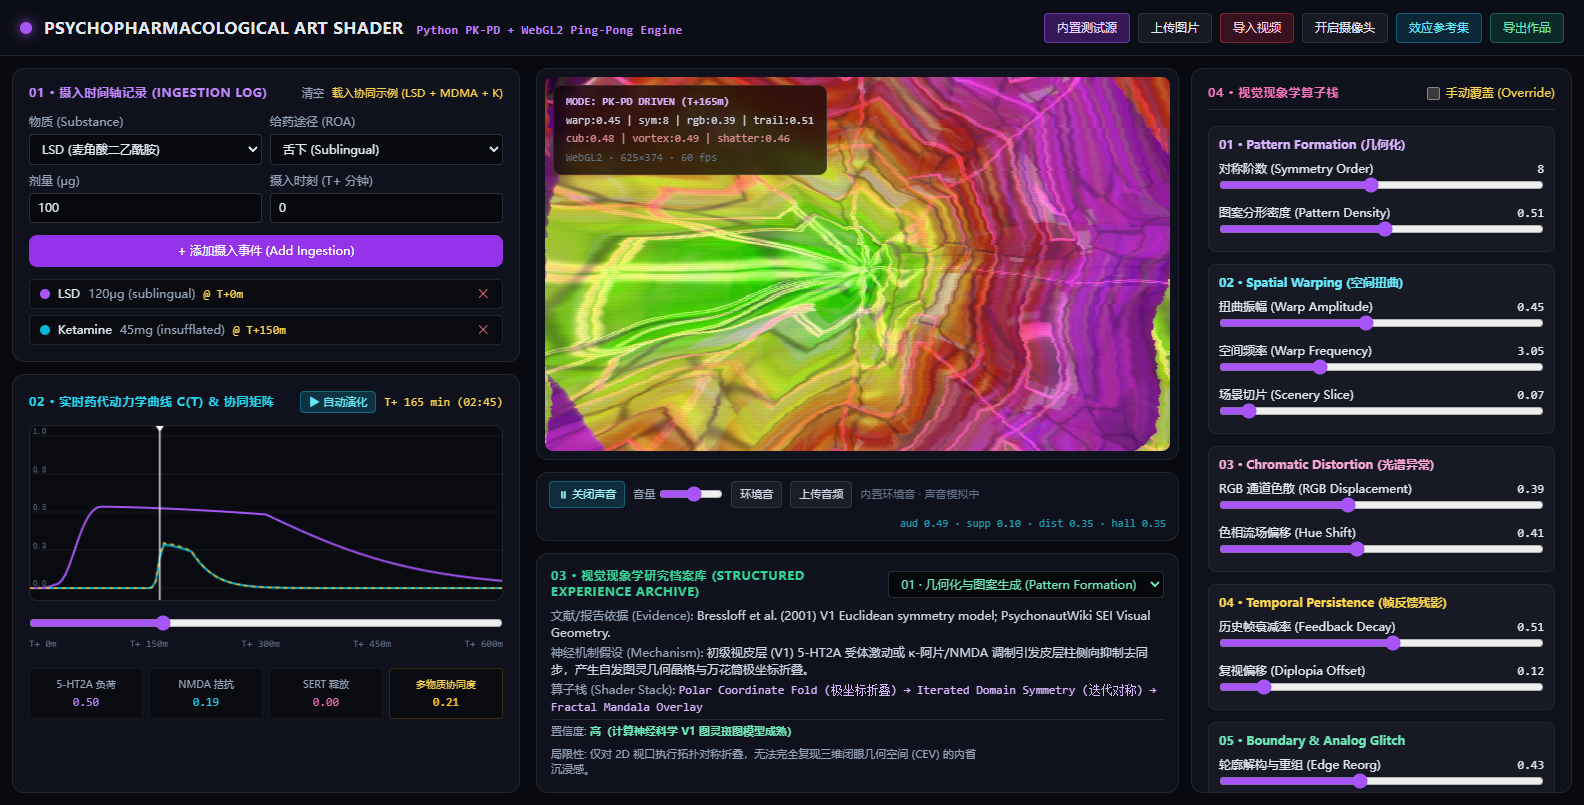
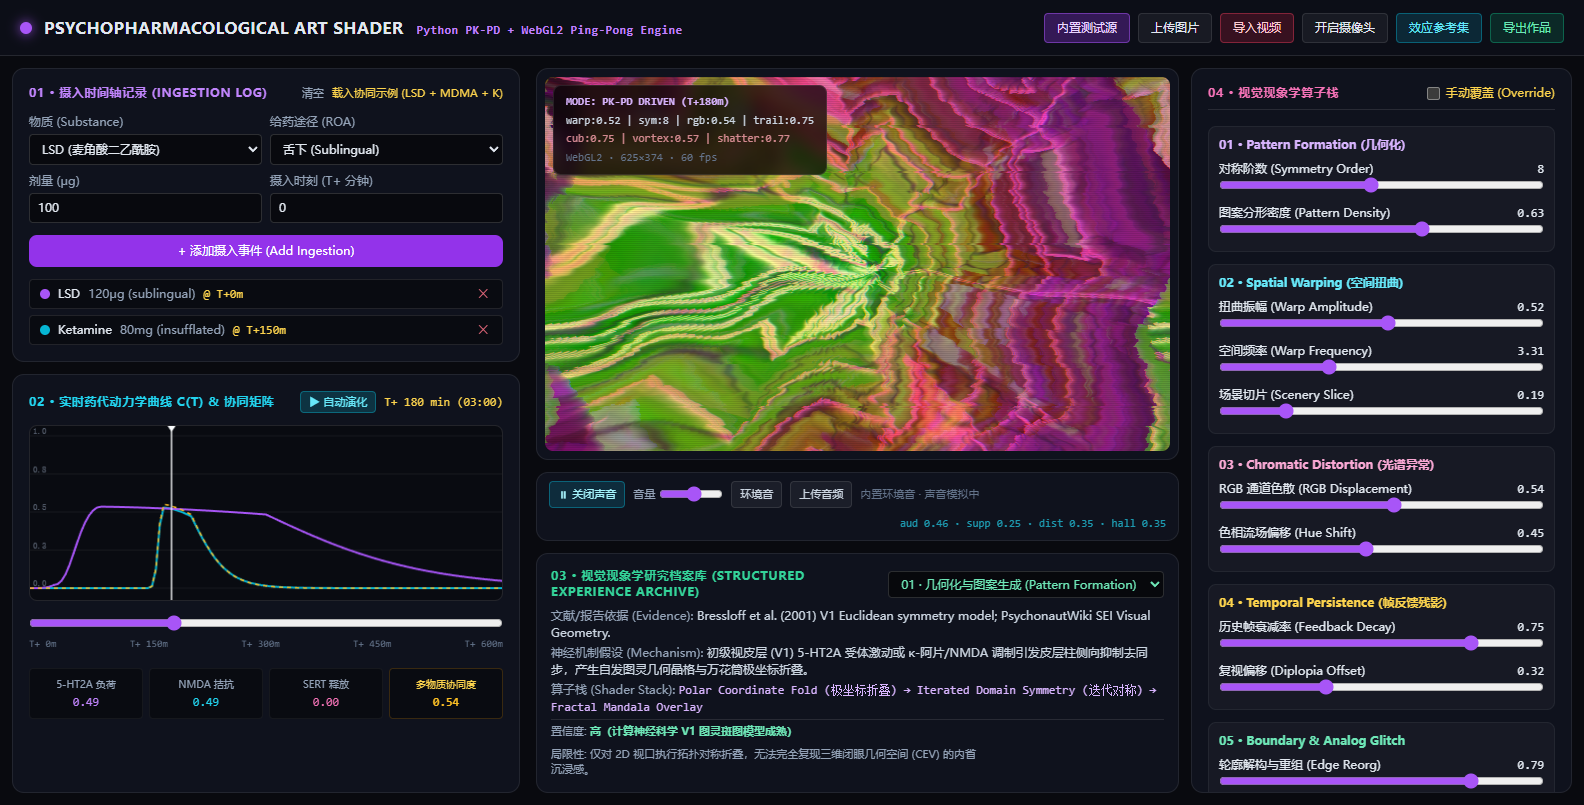
Make audio simulation audible and preserve multi-substance salience
- Add 0.75s pulse + high shimmer to the ambient source so filters/delay/distortion have content
- Strengthen lowpass, high-shelf, waveshaper, delay and ghost mappings
- Switch multi-substance audio mix to energy-weighted RMS; default T+180 / K 80mg
- Expose audio params in status, extend audio_check assertions
- Refresh screenshots and README explanation

diff --git a/static/index.html b/static/index.html
@@ -492,7 +492,7 @@
       }
       const DEFAULT_INGESTIONS = [
         { id: "ing_1", substance_id: "lsd_25", roa: "sublingual", dose: 120, time_minutes: 0 },
-        { id: "ing_2", substance_id: "ketamine", roa: "insufflated", dose: 45, time_minutes: 150 }
+        { id: "ing_2", substance_id: "ketamine", roa: "insufflated", dose: 80, time_minutes: 150 }
       ];
 
       const $ = (id) => document.getElementById(id);
@@ -501,7 +501,7 @@
       let substances = {};
       let archives = [];
       let ingestions = DEFAULT_INGESTIONS.map((item) => ({ ...item }));
-      let currentTimeMinutes = 165;
+      let currentTimeMinutes = 180;
       let timelineDuration = 0;
       let timelineData = null;
       let lastSimulationState = null;
@@ -544,6 +544,7 @@
         enabled: false,
         volume: 0.55,
         profile: null,
+        lastParams: null,
         meter: 0,
         timeData: null
       };
@@ -1522,17 +1523,31 @@
         const partials = [
           [55, 0.18], [110, 0.10], [165, 0.06], [220, 0.04], [330, 0.025], [440, 0.015],
         ];
+        const pulsePeriod = 0.75;
         for (let channel = 0; channel < 2; channel += 1) {
           const data = buffer.getChannelData(channel);
           const phase = channel === 0 ? 0 : 1.7;
           for (let index = 0; index < length; index += 1) {
             const t = index / rate;
-            let value = 0;
+            let pad = 0;
             for (const [frequency, amplitude] of partials) {
-              value += amplitude * Math.sin(2 * Math.PI * frequency * t + phase * (frequency / 220));
+              pad += amplitude * Math.sin(2 * Math.PI * frequency * t + phase * (frequency / 220));
             }
             const breathe = 0.72 + 0.28 * Math.sin((2 * Math.PI * t) / seconds + phase);
-            data[index] = value * breathe * 0.8;
+            // 高频闪烁，让 clarity/high-shelf 有可作用的内容
+            const shimmer = 0.012 * Math.sin(2 * Math.PI * 880 * t + phase)
+              + 0.007 * Math.sin(2 * Math.PI * 1320 * t + phase * 1.3)
+              + 0.005 * Math.sin(2 * Math.PI * 1760 * t + phase * 0.7);
+            // 0.75 秒一次的软拨弦脉冲，让低通、失真与延迟听得见
+            const pulsePhase = t % pulsePeriod;
+            const pulseEnv = Math.exp(-pulsePhase * 9);
+            const pulse = pulseEnv * (
+              0.20 * Math.sin(2 * Math.PI * 220 * t + phase)
+              + 0.10 * Math.sin(2 * Math.PI * 440 * t + phase * 1.4)
+              + 0.05 * Math.sin(2 * Math.PI * 880 * t)
+              + 0.025 * Math.sin(2 * Math.PI * 1760 * t + phase)
+            );
+            data[index] = (pad * breathe * 0.9 + shimmer + pulse) * 0.8;
           }
         }
         return buffer;
@@ -1733,28 +1748,43 @@
           label.textContent = profile && profile.active
             ? `aud ${fmt2(profile.clarity)} · supp ${fmt2(profile.suppression)} · dist ${fmt2(profile.distortion)} · hall ${fmt2(profile.hallucination)}`
             : "no active auditory profile";
-          label.title = label.textContent;
+          const sources = profile && Array.isArray(profile.sources)
+            ? profile.sources.map((source) => `${source.name} ${fmt2(source.effect)}`).join(" + ")
+            : "";
+          label.title = sources ? `${label.textContent} · ${sources}` : label.textContent;
         }
         const graph = audioState.graph;
         if (!graph) return;
         const value = (key) => Math.max(0, Math.min(1, Number(profile && profile[key]) || 0));
         const now = graph.ctx.currentTime;
         const cutoff = clampNumber(
-          19000 - value("suppression") * 12000 - value("sedation") * 5500
-          - value("dissociation") * 2500 + value("clarity") * 1500,
-          500, 20000,
+          18000 * Math.pow(Math.max(
+            0.03,
+            1 - value("suppression") * 0.55 - value("sedation") * 0.42 - value("dissociation") * 0.55,
+          ), 1.7) + 250,
+          300, 20000,
         );
         graph.lowpass.frequency.setTargetAtTime(cutoff, now, 0.35);
-        graph.highShelf.gain.setTargetAtTime(value("clarity") * 9 - value("suppression") * 3 + value("arousal") * 2, now, 0.35);
-        graph.shaper.curve = graph.curves[Math.round(value("distortion") * 10)];
-        graph.delay.delayTime.setTargetAtTime(0.12 + value("time_warp") * 0.55, now, 0.35);
-        graph.feedback.gain.setTargetAtTime(0.05 + value("time_warp") * 0.52, now, 0.35);
-        graph.wet.gain.setTargetAtTime(0.05 + value("time_warp") * 0.45, now, 0.35);
-        graph.ghostGain.gain.setTargetAtTime(value("hallucination") * 0.055, now, 0.4);
+        graph.highShelf.gain.setTargetAtTime(value("clarity") * 12 - value("suppression") * 4 + value("arousal") * 3, now, 0.35);
+        graph.shaper.curve = graph.curves[Math.round(Math.min(1, value("distortion") * 1.15 + value("intensity") * 0.1) * 10)];
+        graph.delay.delayTime.setTargetAtTime(0.16 + value("time_warp") * 0.60, now, 0.35);
+        graph.feedback.gain.setTargetAtTime(0.08 + value("time_warp") * 0.55, now, 0.35);
+        graph.wet.gain.setTargetAtTime(0.12 + value("time_warp") * 0.55, now, 0.35);
+        const ghostLevel = value("hallucination") * 0.11 * (0.5 + 0.5 * value("intensity"));
+        graph.ghostGain.gain.setTargetAtTime(ghostLevel, now, 0.4);
         graph.ghost1.frequency.setTargetAtTime(180 + value("hallucination") * 90 + value("time_warp") * 20, now, 0.5);
         graph.ghost2.frequency.setTargetAtTime(270 + value("hallucination") * 140, now, 0.5);
         graph.ghostLfo.frequency.setTargetAtTime(0.05 + value("arousal") * 0.35, now, 0.5);
-        graph.tinnitusGain.gain.setTargetAtTime(value("tinnitus") * 0.018, now, 0.4);
+        graph.tinnitusGain.gain.setTargetAtTime(value("tinnitus") * 0.025, now, 0.4);
+        audioState.lastParams = {
+          cutoff: Math.round(cutoff),
+          highShelfDb: Number((value("clarity") * 12 - value("suppression") * 4 + value("arousal") * 3).toFixed(1)),
+          distortion: Number(Math.min(1, value("distortion") * 1.15 + value("intensity") * 0.1).toFixed(2)),
+          delaySeconds: Number((0.16 + value("time_warp") * 0.60).toFixed(2)),
+          wet: Number((0.12 + value("time_warp") * 0.55).toFixed(2)),
+          ghost: Number(ghostLevel.toFixed(3)),
+          tinnitus: Number((value("tinnitus") * 0.025).toFixed(3))
+        };
       }
 
       function updateAudioMeter() {
@@ -1774,7 +1804,7 @@
           sum += centered * centered;
         }
         const rms = Math.sqrt(sum / audioState.timeData.length);
-        const target = Math.min(1, rms * 2.4);
+        const target = Math.min(1, rms * 1.5);
         audioState.meter = audioState.meter * 0.82 + target * 0.18;
       }
 
@@ -3286,6 +3316,7 @@
               volume: audioState.volume,
               meter: Number(audioState.meter.toFixed(3)),
               contextState: audioState.ctx ? audioState.ctx.state : null,
+              params: audioState.lastParams,
               profile: audioState.profile
             },
             ingestions: ingestions.map((item) => ({ ...item })),

diff --git a/tools/audio_check.js b/tools/audio_check.js
@@ -19,6 +19,9 @@
   assert(on.contextState === "running", "AudioContext 未运行: " + on.contextState);
   assert(on.profile && on.profile.active, "没有活动的听觉画像");
   assert(later.meter > 0.01, "音频分析器没有能量");
+  assert(on.params, "没有音频参数诊断");
+  assert(on.params.cutoff < 8000, "默认示例的低通未明显介入: " + (on.params && on.params.cutoff));
+  assert(on.params.wet > 0.25, "默认示例的延迟湿声过低: " + (on.params && on.params.wet));
   assert(status().errors.length === 0, "声音模拟产生运行时错误");
 
   return JSON.stringify({
@@ -26,6 +29,7 @@
     contextState: on.contextState,
     sourceName: on.sourceName,
     meter: later.meter,
+    params: on.params,
     profile: {
       clarity: on.profile.clarity,
       suppression: on.profile.suppression,

diff --git a/audio_profiles.py b/audio_profiles.py
@@ -20,6 +20,7 @@ Dimensions (all normalized to 0..1):
 """
 from __future__ import annotations
 
+import math
 import re
 from typing import Any, Dict, List
 
@@ -188,7 +189,11 @@ def list_audio_profiles() -> List[Dict[str, Any]]:
 
 
 def compute_audio_uniforms(substance_effects: Dict[str, float]) -> Dict[str, Any]:
-    """Weight audio dimensions by current PK effect strength."""
+    """Mix audio dimensions by current PK effect strength.
+
+    Uses an energy-weighted RMS instead of a linear average. A strong effect from
+    one substance is therefore not washed out by a weak co-active substance.
+    """
     total = sum(max(0.0, float(value)) for value in (substance_effects or {}).values())
     if total <= 1e-9:
         return {
@@ -205,7 +210,9 @@ def compute_audio_uniforms(substance_effects: Dict[str, float]) -> Dict[str, Any
         if not profile or weight <= 1e-9:
             continue
         for key in AUDIO_KEYS:
-            accumulator[key] += profile["scores"].get(key, 0.0) * weight
+            value = profile["scores"].get(key, 0.0)
+            # 能量加权 RMS：比线性平均更保留个别物质的强效应，避免被低剂量成分稀释。
+            accumulator[key] += value * value * weight
         sources.append({
             "id": substance_id,
             "name": profile.get("name"),
@@ -213,7 +220,8 @@ def compute_audio_uniforms(substance_effects: Dict[str, float]) -> Dict[str, Any
             "auditory_effects": profile.get("auditory_effect_count", 0),
         })
 
-    result = {key: round(accumulator[key] / total, 3) for key in AUDIO_KEYS}
+    result = {key: round(math.sqrt(accumulator[key] / total), 3) for key in AUDIO_KEYS}
+    result["intensity"] = round(max(result[key] for key in AUDIO_KEYS if key != "intensity"), 3)
     result["active"] = bool(sources)
     result["sources"] = sources
     return result

diff --git a/README.md b/README.md
@@ -160,7 +160,7 @@ shaderLab.useTestPattern()            // 恢复内置测试源
 | GET | `/api/audio-profiles` | 25 种物质的启发式音频画像 |
 
 `POST /api/simulate` 的 `current_state` 同时返回 `shader_uniforms` 与
-`audio_uniforms`（10 维音频画像按当前药效加权混合）。
+`audio_uniforms`（10 维音频画像 + `intensity`，按当前药效做能量加权 RMS 混合）。
 
 示例：
 
@@ -168,9 +168,9 @@ shaderLab.useTestPattern()            // 恢复内置测试源
 {
   "ingestions": [
     {"id": "i1", "substance_id": "lsd_25", "roa": "sublingual", "dose": 120, "time_minutes": 0},
-    {"id": "i2", "substance_id": "ketamine", "roa": "insufflated", "dose": 45, "time_minutes": 150}
+    {"id": "i2", "substance_id": "ketamine", "roa": "insufflated", "dose": 80, "time_minutes": 150}
   ],
-  "current_time_minutes": 165,
+  "current_time_minutes": 180,
   "timeline_duration_minutes": 600
 }
 ```
@@ -292,7 +292,8 @@ notepad references\substance_effects.md
         → 耳鸣正弦 (tinnitus) ────────┘
 ```
 
-- 音频参数由 `/api/simulate` 返回的 `audio_uniforms` 按当前 PK 效应加权混合；
+- 音频参数由 `/api/simulate` 返回的 `audio_uniforms` 按当前 PK 效应做能量加权 RMS 混合，
+  以保留个别物质的强效应，避免被低剂量成分线性稀释；
 - `analyser` 的 RMS 能量 × `synaesthesia` 传入着色器 `u_audio_energy`，
   形成音频驱动的色相/亮度脉冲；
 - 声音默认关闭，点击“🔈 开启声音”后创建 `AudioContext`（浏览器手势策略）；
@@ -301,6 +302,11 @@ notepad references\substance_effects.md
 
 > 声音模拟只生成抽象 drone / 振荡器 / 滤波与延迟，不合成真实人声；
 > 音频画像为效应名启发式映射，不能预测个人实际听感，也不构成医疗建议。
+>
+> 默认示例为 **T+180 min / LSD 120μg + Ketamine 80mg（insufflated）**。
+> 内置环境音包含 0.75 秒一次的软拨弦脉冲与高频闪烁；如果只有持续低频 pad，
+> 低通、高架、失真和延迟会几乎听不出来。多物质混合使用能量加权 RMS，
+> 避免低剂量成分把强解离/幻听效应线性稀释。
 
 ---
 
